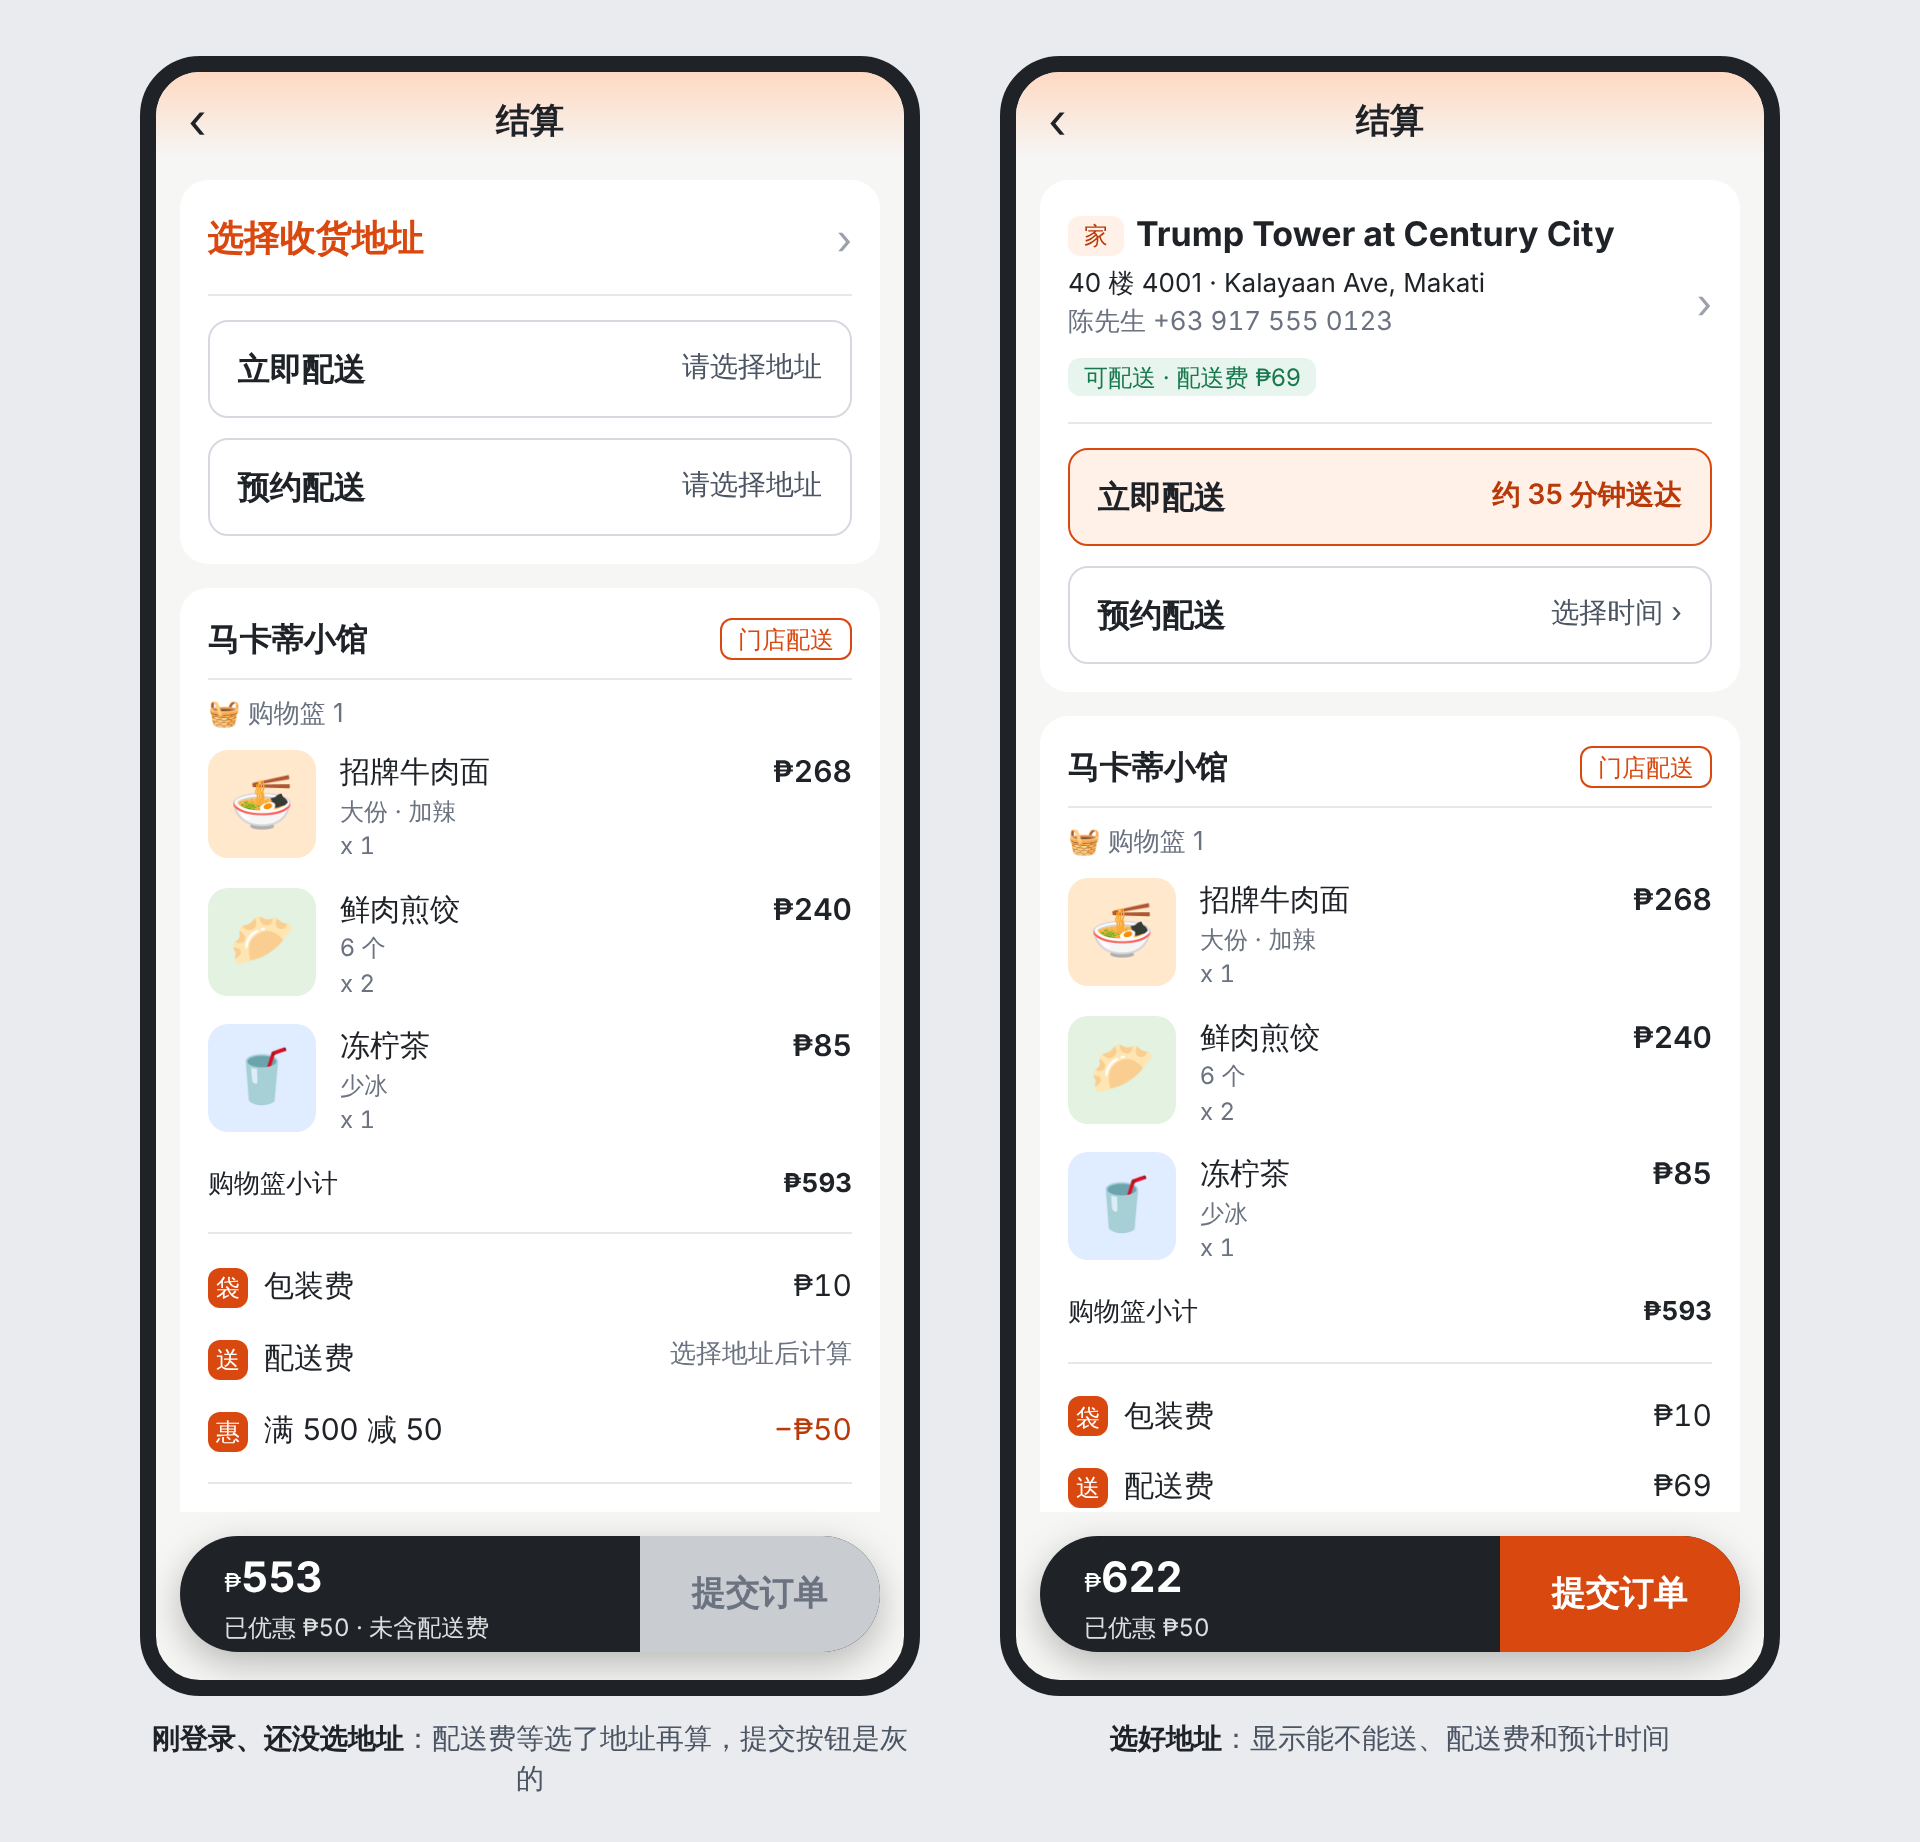
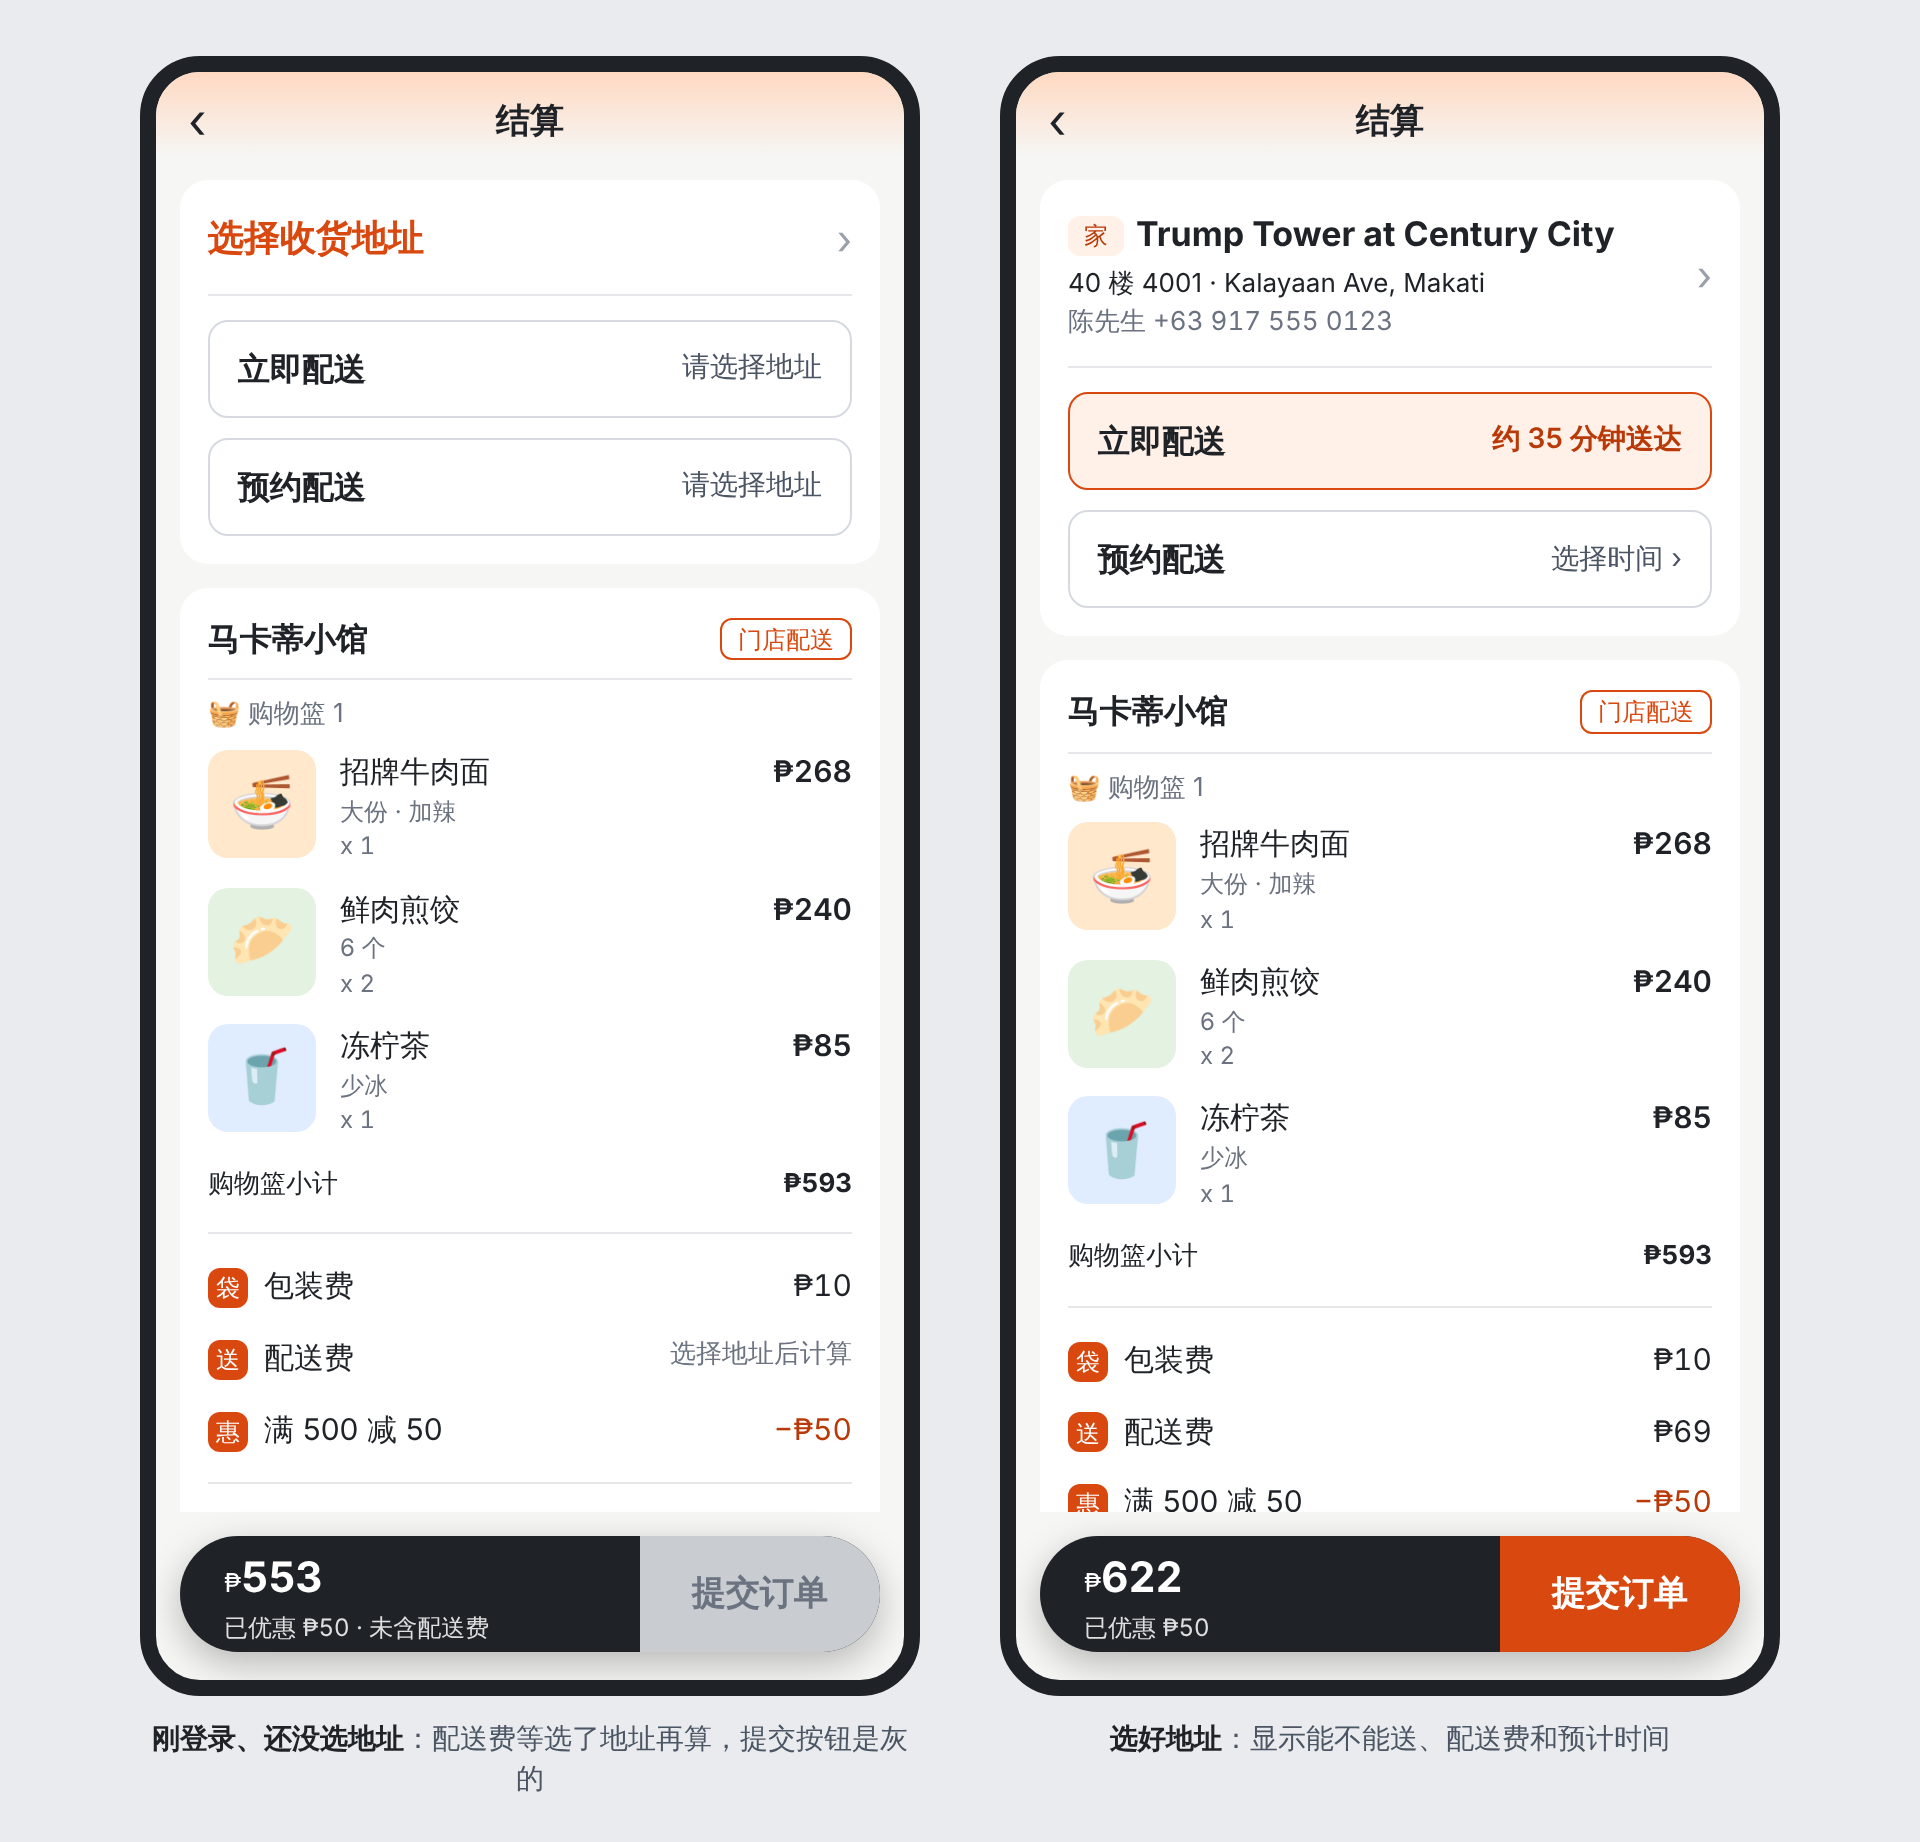
方案 v0.2：结算页地址卡不显示配送区
Claude-Session: https://claude.ai/code/session_0171QGWJ256qx9V7u3WcEYX4

diff --git a/docs/checkout-prototype/index.html b/docs/checkout-prototype/index.html
@@ -34,7 +34,7 @@ function login(sent) {
 var ITEMS = [['🍜', '#ffe8cc', '招牌牛肉面', '大份 · 加辣', 1, 268], ['🥟', '#e3f2e1', '鲜肉煎饺', '6 个', 2, 240], ['🥤', '#e0ecff', '冻柠茶', '少冰', 1, 85]];
 function addrCard(sel, pickup) {
   var top = sel
-    ? '<div class="addr row"><div class="grow"><div class="row" style="gap:6px"><span class="tag brand">家</span><b style="font-size:17px">Trump Tower at Century City</b></div><div class="small" style="margin-top:3px">40 楼 4001 · Kalayaan Ave, Makati</div><div class="small muted num">陈先生 +63 917 555 0123</div><div style="margin-top:6px"><span class="tag ok">可配送 · 配送费 ₱69</span></div></div><span class="chev">›</span></div>'
+    ? '<div class="addr row"><div class="grow"><div class="row" style="gap:6px"><span class="tag brand">家</span><b style="font-size:17px">Trump Tower at Century City</b></div><div class="small" style="margin-top:3px">40 楼 4001 · Kalayaan Ave, Makati</div><div class="small muted num">陈先生 +63 917 555 0123</div></div><span class="chev">›</span></div>'
     : '<div class="addr row between"><span class="pick">选择收货地址</span><span class="chev">›</span></div>';
   return '<div class="card">' + top +
     '<div class="opt' + (sel ? ' on' : '') + '"><b>立即配送</b><span class="v">' + (sel ? '约 35 分钟送达' : '请选择地址') + '</span></div>' +
